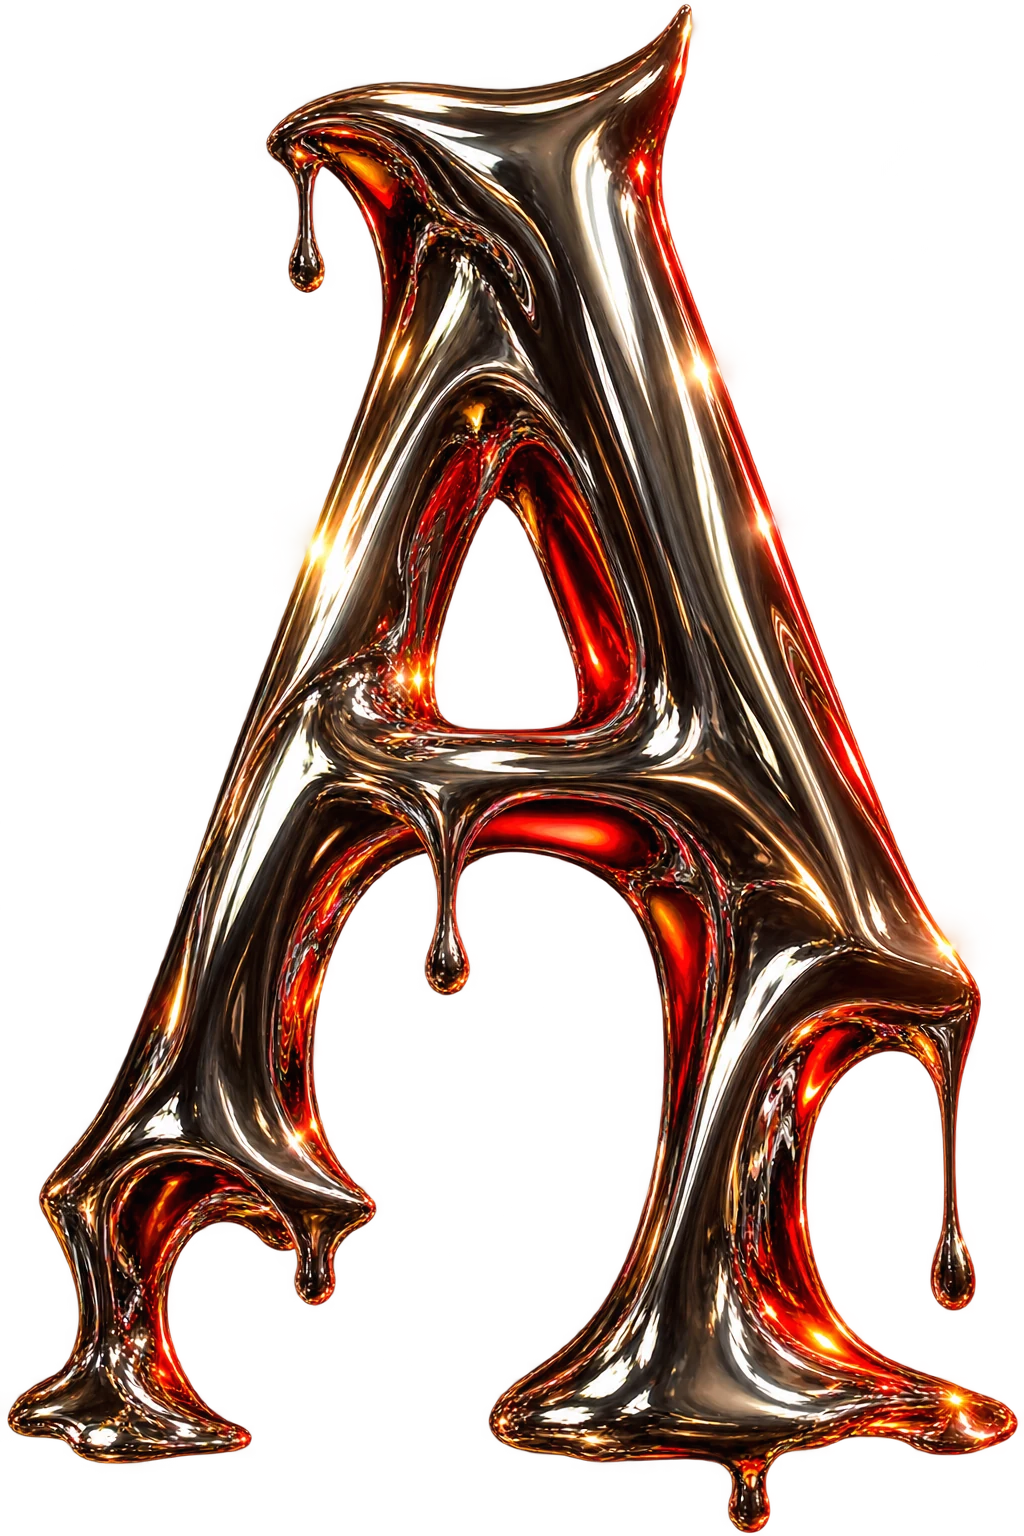
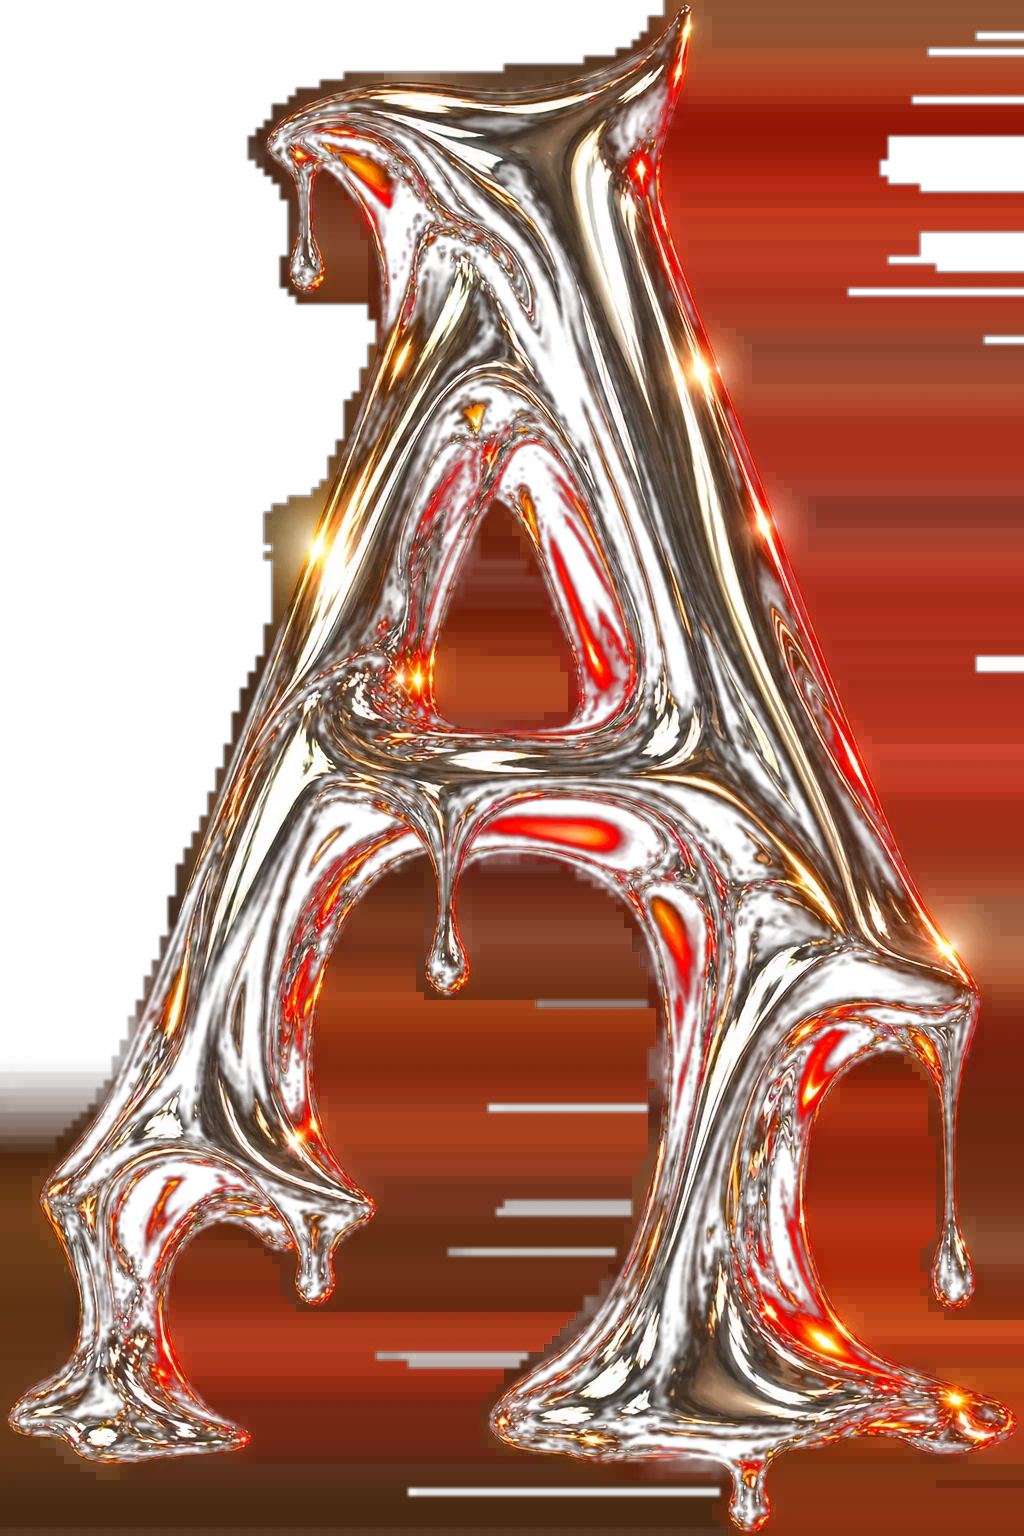
Wire Boot chapter's ADISH plate, parallax background stack, and shard cutout
- Add far/mid/near atmosphere layers (public/bg/) with screen-blend
  compositing and scroll-driven parallax drift, extending PlateBackdrop
  and useScrollAnchors (new sceneOffset) to support layered chapter
  backdrops instead of a single flat plate.
- Replace plate-01-boot with the "ADISH" chrome typography plate.
- Fix a pre-existing bug where the plate's inline scale() transform
  silently discarded the CSS translateY(-50%) centering rule, leaving
  the plate pinned to screen-center instead of vertically centered.
- Re-export foreground cutouts (fg-boot-shard, fg-chrome-a) with a real
  luminance-derived alpha channel instead of relying on mix-blend-mode
  lighten against a near-black backdrop, removing the visible box edge.
- Wire the new shard cutout into Boot via ForegroundPlate.

Claude-Session: https://claude.ai/code/session_0197me7mYqRCmoec2yFrKQKN

diff --git a/src/styles.css b/src/styles.css
@@ -23,20 +23,29 @@ h1,h2,h3{font-weight:400;margin:0;letter-spacing:-.005em;}
    doesn't collide with that chapter's copy layout. */
 .plate-backdrop{position:fixed;inset:0;z-index:0;pointer-events:none;overflow:hidden;}
 .plate{position:absolute;inset:0;opacity:0;transition:opacity .9s var(--ease-out),filter .9s var(--ease-out);filter:blur(0);}
-.plate img{position:absolute;top:50%;transform-origin:center;height:100%;width:auto;max-width:none;
+.plate .plate-img{position:absolute;top:50%;z-index:3;transform-origin:center;height:100%;width:auto;max-width:none;
   filter:contrast(1.05) saturate(1.05);}
-.plate--right img{right:0;transform:translateY(-50%);}
-.plate--left  img{left:0;transform:translateY(-50%);}
-.plate--center img{left:50%;transform:translate(-50%,-50%);}
+.plate--right .plate-img{right:0;transform:translateY(-50%) scale(var(--s,1));}
+.plate--left  .plate-img{left:0;transform:translateY(-50%) scale(var(--s,1));}
+.plate--center .plate-img{left:50%;transform:translate(-50%,-50%) scale(var(--s,1));}
 .plate--in{opacity:1;}
 .plate--out{opacity:0;filter:blur(14px);}
 /* fade to ink at the top-left so the DOM copy never sits on top of loud pixels */
-.plate::after{content:'';position:absolute;inset:0;pointer-events:none;
+.plate::after{content:'';position:absolute;inset:0;pointer-events:none;z-index:4;
   background:linear-gradient(105deg,var(--ink) 0%,rgba(5,7,10,.85) 32%,rgba(5,7,10,.35) 55%,transparent 78%);}
 @media (max-width:720px){
-  .plate img{height:auto;width:180%;left:50%!important;top:auto;bottom:0;transform:translateX(-50%)!important;}
+  .plate .plate-img{height:auto;width:180%;left:50%!important;top:auto;bottom:0;transform:translateX(-50%)!important;}
   .plate::after{background:linear-gradient(180deg,var(--ink) 0%,rgba(5,7,10,.85) 30%,rgba(5,7,10,.45) 60%,transparent 90%);}
 }
+
+/* Stacked background planes (far/mid/near) behind the chapter's scene plate —
+   each drifts at its own speed as sceneOffset changes, giving the Kage-style
+   parallax depth. Full-bleed cover, no anchor logic (these are atmosphere,
+   not a composed subject). */
+.bg-layer{position:absolute;inset:-160px 0;transition:opacity .9s var(--ease-out);will-change:transform;}
+.bg-layer img{position:absolute;inset:0;width:100%;height:100%;object-fit:cover;filter:saturate(1.08);
+  mix-blend-mode:screen;}
+.bg-layer:first-child img{mix-blend-mode:normal;}
 
 #grain{position:fixed;inset:0;z-index:1;pointer-events:none;opacity:.5;
   background:repeating-linear-gradient(0deg,rgba(223,231,224,.012) 0 1px,transparent 1px 3px);}
@@ -164,12 +173,12 @@ footer h4{margin:0;font-size:10px;font-weight:500;letter-spacing:.22em;text-tran
 @media (prefers-reduced-motion:reduce){ .fg-plate{transition:opacity .2s linear;filter:none!important;transform:none!important;} }
 @media (max-width:720px){ .foreground-host{display:none;} }
 
-/* Alpha-less cutout composited over the site ink via blend mode: the
-   image's near-black background falls through, leaving the chrome and
-   warm halo. Keeps us honest with GPT Image's non-transparent output
-   without a manual bg-removal step per plate. */
+/* Cutout PNGs come back from GPT Image on a near-black (not transparent)
+   backdrop, so we post-process a real alpha channel from luminance before
+   these ship (see IMAGE_PROMPTS.md notes) — plain compositing here, no
+   blend-mode trick needed once alpha is real. */
 .fg-cutout{display:block;height:clamp(320px,52vh,620px);width:auto;
-  mix-blend-mode:lighten;filter:contrast(1.06) saturate(1.05);}
+  filter:contrast(1.06) saturate(1.05) drop-shadow(0 18px 34px rgba(0,0,0,.55));}
 @media (prefers-reduced-motion:reduce){ .fg-cutout{transition:none;} }
 
 a:focus-visible, button:focus-visible{outline:1px solid var(--vermilion);outline-offset:3px;}

diff --git a/src/components/PlateBackdrop.jsx b/src/components/PlateBackdrop.jsx
@@ -11,8 +11,11 @@ import { useEffect, useState } from 'react';
 // GPT-generated plates arrive.
 
 const CROSSFADE_MS = 900;
+// Clamp how far within-chapter scroll can push a background layer — long
+// chapters shouldn't drag the far/mid/near planes off past a subtle drift.
+const MAX_PARALLAX_PX = 140;
 
-export default function PlateBackdrop({ plates, activeIndex }) {
+export default function PlateBackdrop({ plates, activeIndex, sceneOffset = 0 }) {
   const [current, setCurrent] = useState(activeIndex);
   const [prev, setPrev] = useState(null);
 
@@ -29,18 +32,30 @@ export default function PlateBackdrop({ plates, activeIndex }) {
 
   return (
     <div className="plate-backdrop" aria-hidden="true">
-      {prevPlate && <PlateImage key={`prev-${prev}`} plate={prevPlate} state="out" />}
-      {currentPlate && <PlateImage key={`cur-${current}`} plate={currentPlate} state="in" />}
+      {prevPlate && <PlateImage key={`prev-${prev}`} plate={prevPlate} state="out" sceneOffset={0} />}
+      {currentPlate && <PlateImage key={`cur-${current}`} plate={currentPlate} state="in" sceneOffset={sceneOffset} />}
     </div>
   );
 }
 
-function PlateImage({ plate, state }) {
-  const { src, anchor = 'right', scale = 1 } = plate;
+function PlateImage({ plate, state, sceneOffset }) {
+  const { src, anchor = 'right', scale = 1, layers } = plate;
   const cls = `plate plate--${anchor} plate--${state}`;
   return (
     <div className={cls}>
-      <img src={src} alt="" style={{ transform: `scale(${scale})` }} />
+      {layers && layers.map((layer, i) => {
+        const drift = Math.max(-MAX_PARALLAX_PX, Math.min(MAX_PARALLAX_PX, sceneOffset * layer.speed));
+        return (
+          <div
+            className="bg-layer"
+            key={layer.src}
+            style={{ zIndex: i, opacity: layer.opacity ?? 1, transform: `translateY(${drift}px)` }}
+          >
+            <img src={layer.src} alt="" />
+          </div>
+        );
+      })}
+      {src && <img className="plate-img" src={src} style={{ '--s': scale }} alt="" />}
     </div>
   );
 }

diff --git a/src/App.jsx b/src/App.jsx
@@ -8,7 +8,16 @@ import PlateBackdrop from './components/PlateBackdrop.jsx';
 // the rest of the GPT-generated plates arrive; a null slot leaves the base
 // ink background visible for that chapter.
 const PLATES = [
-  { src: '/plates/plate-01-boot.webp', anchor: 'right', scale: 1.04 }, // Boot
+  {
+    src: '/plates/plate-01-boot.webp',
+    anchor: 'right',
+    scale: 1.04,
+    layers: [
+      { src: '/bg/boot-far.webp', speed: 0.03, opacity: 0.55 },
+      { src: '/bg/boot-mid.webp', speed: 0.06, opacity: 0.75 },
+      { src: '/bg/boot-near.webp', speed: 0.1, opacity: 0.9 }
+    ]
+  }, // Boot
   null, // Stack — pending
   null, // Runtime — pending
   null, // Modules — pending
@@ -29,12 +38,12 @@ export default function App() {
   const deployRef = useRef(null);
   const sectionRefs = useMemo(() => [bootRef, stackRef, runtimeRef, modulesRef, deployRef], []);
 
-  const { activeIndex } = useScrollAnchors(sectionRefs, CHAPTER_IDS);
+  const { activeIndex, sceneOffset } = useScrollAnchors(sectionRefs, CHAPTER_IDS);
   const { hostRef, host } = useForegroundHost();
 
   return (
     <div>
-      <PlateBackdrop plates={PLATES} activeIndex={activeIndex} />
+      <PlateBackdrop plates={PLATES} activeIndex={activeIndex} sceneOffset={sceneOffset} />
       <div id="grain" aria-hidden="true" />
       <div id="vignette" aria-hidden="true" />
       <ForegroundHost hostRef={hostRef} />
@@ -43,7 +52,7 @@ export default function App() {
       <Nav chapterIds={CHAPTER_IDS} activeIndex={activeIndex} />
 
       <main>
-        <Boot sectionRef={bootRef} />
+        <Boot sectionRef={bootRef} active={activeIndex === 0} foregroundHost={host} />
         <Stack sectionRef={stackRef} />
         <Runtime sectionRef={runtimeRef} />
         <Modules sectionRef={modulesRef} active={activeIndex === 3} foregroundHost={host} />

diff --git a/src/hooks/useScrollAnchors.js b/src/hooks/useScrollAnchors.js
@@ -4,6 +4,10 @@ import { measureAnchors, exactProgressFromScroll } from '../lib/scrollProgress.j
 export function useScrollAnchors(sectionRefs, chapterIds) {
   const anchorsRef = useRef([]);
   const [activeIndex, setActiveIndex] = useState(0);
+  // Pixel distance between current scrollY and the active chapter's anchor —
+  // drives within-chapter background parallax (0 at the chapter's resting
+  // center, grows as the user scrolls away from it).
+  const [sceneOffset, setSceneOffset] = useState(0);
   const widthAtMeasureRef = useRef(window.innerWidth);
 
   useEffect(() => {
@@ -19,6 +23,8 @@ export function useScrollAnchors(sectionRefs, chapterIds) {
       const exact = exactProgressFromScroll(anchorsRef.current, scrollY);
       const idx = Math.max(0, Math.min(chapterIds.length - 1, Math.round(exact)));
       setActiveIndex((prev) => (prev === idx ? prev : idx));
+      const anchor = anchorsRef.current[idx];
+      setSceneOffset(typeof anchor === 'number' ? scrollY - anchor : 0);
     }
 
     function onResize() {
@@ -49,5 +55,5 @@ export function useScrollAnchors(sectionRefs, chapterIds) {
     // eslint-disable-next-line react-hooks/exhaustive-deps
   }, []);
 
-  return { anchorsRef, activeIndex };
+  return { anchorsRef, activeIndex, sceneOffset };
 }

diff --git a/src/content/Boot.jsx b/src/content/Boot.jsx
@@ -1,7 +1,8 @@
 import SplitHeading from '../components/SplitHeading.jsx';
 import { useInView } from '../hooks/useInView.js';
+import ForegroundPlate from '../components/ForegroundPlate.jsx';
 
-export default function Boot({ sectionRef }) {
+export default function Boot({ sectionRef, active, foregroundHost }) {
   const { ref: viewRef, inView } = useInView();
   const setRefs = (el) => {
     sectionRef.current = el;
@@ -10,6 +11,9 @@ export default function Boot({ sectionRef }) {
 
   return (
     <section id="boot" ref={setRefs} className={`chapter${inView ? ' in' : ''}`}>
+      <ForegroundPlate host={foregroundHost} active={!!active} anchor="bottom-right">
+        <img className="fg-cutout" src="/foreground/fg-boot-shard.webp" alt="" aria-hidden="true" />
+      </ForegroundPlate>
       <div className="hero">
         <div className="eyebrow"><div className="dot" />Chapter 01 — Boot</div>
         <SplitHeading text="Adish Shah" as="h1" className="name" />
